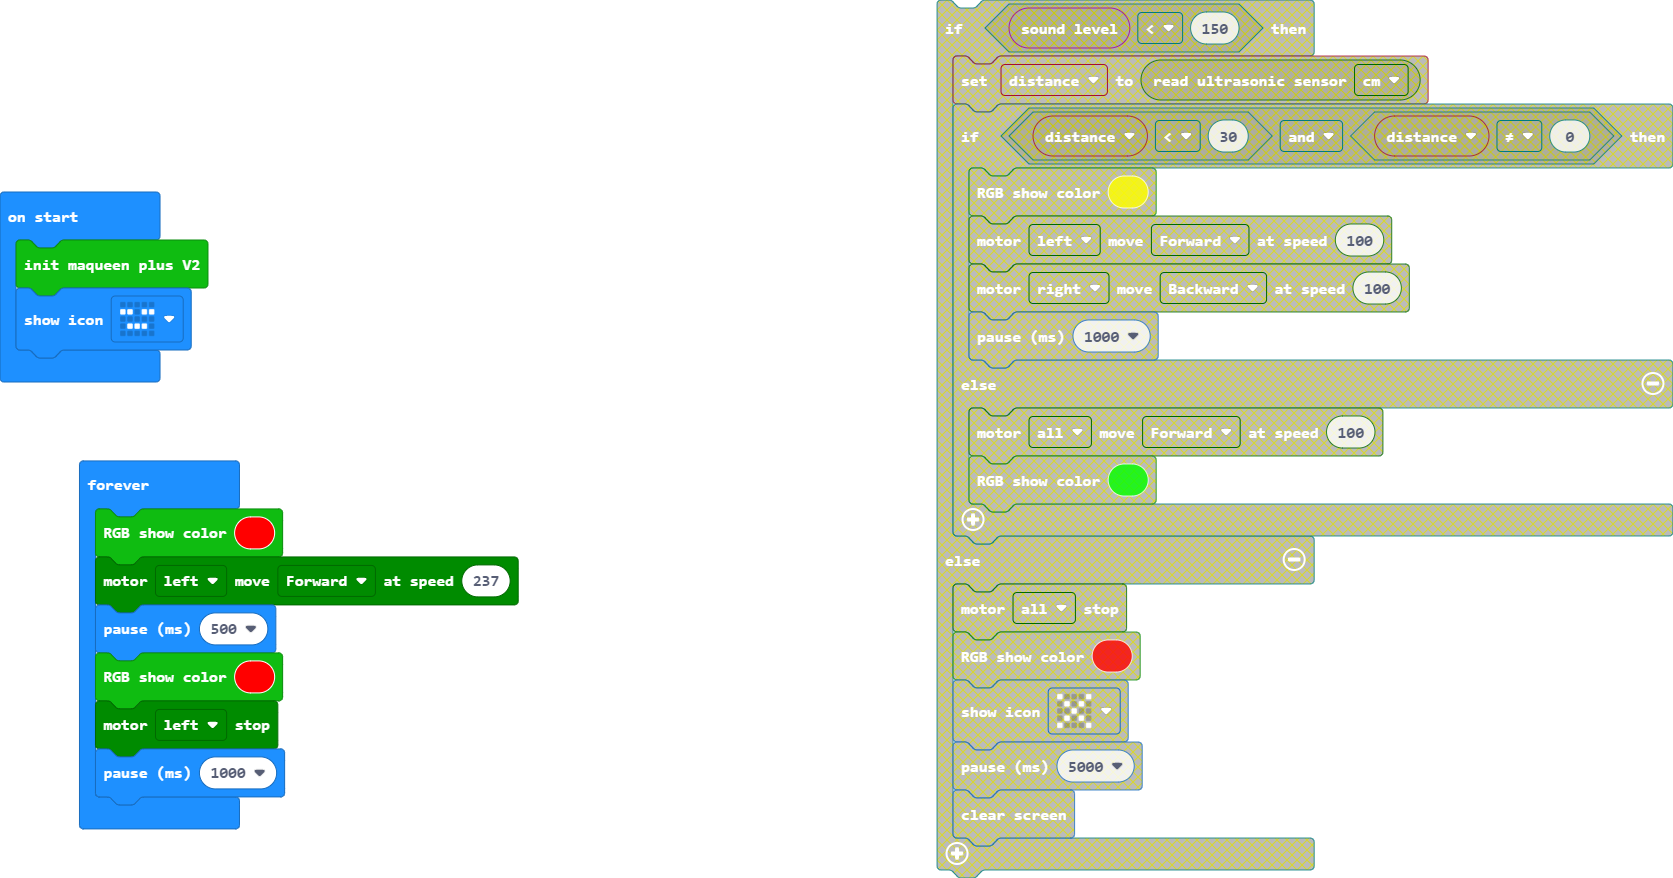
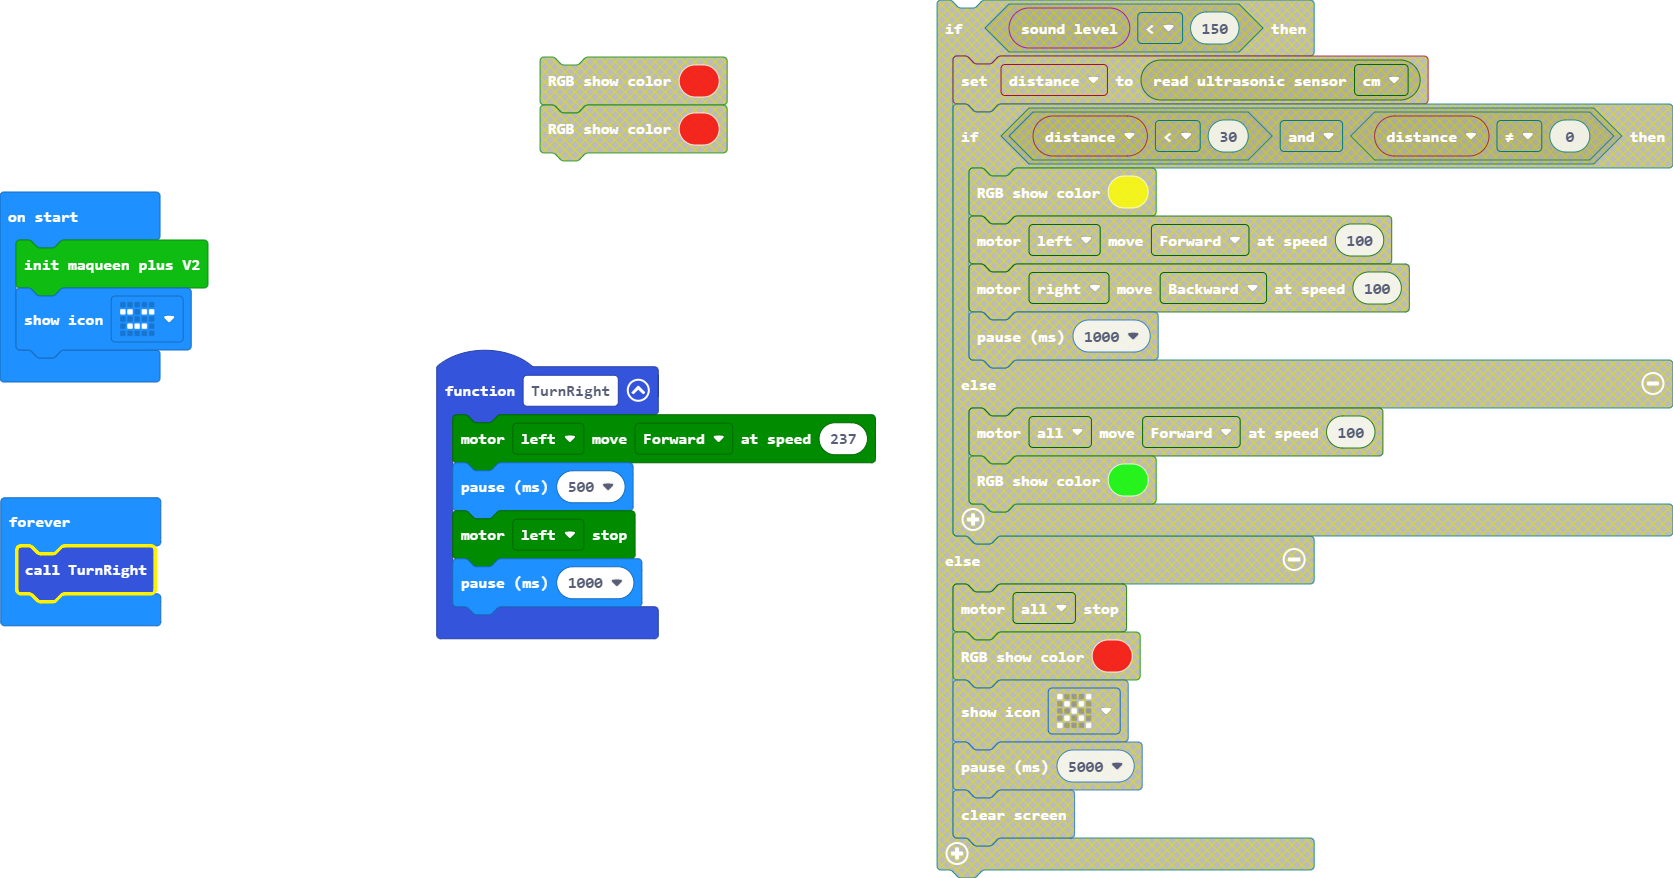
Update main.blocks, main.ts

Changed region(s): [[0.0, 0.3998, 0.5284, 0.9533], [0.3108, 0.0615, 0.4351, 0.1845]]

diff --git a/main.ts b/main.ts
@@ -1,10 +1,11 @@
+function TurnRight () {
+    maqueen.motorRun(maqueen.Motors.M1, maqueen.Dir.CW, 237)
+    basic.pause(500)
+    maqueen.motorStop(maqueen.Motors.M1)
+    basic.pause(1000)
+}
 DFRobotMaqueenPlusV2.init()
 basic.showIcon(IconNames.Asleep)
 basic.forever(function () {
-    DFRobotMaqueenPlusV2.showColor(0xff0000)
-    maqueen.motorRun(maqueen.Motors.M1, maqueen.Dir.CW, 237)
-    basic.pause(500)
-    DFRobotMaqueenPlusV2.showColor(0xff0000)
-    maqueen.motorStop(maqueen.Motors.M1)
-    basic.pause(1000)
+    TurnRight()
 })
